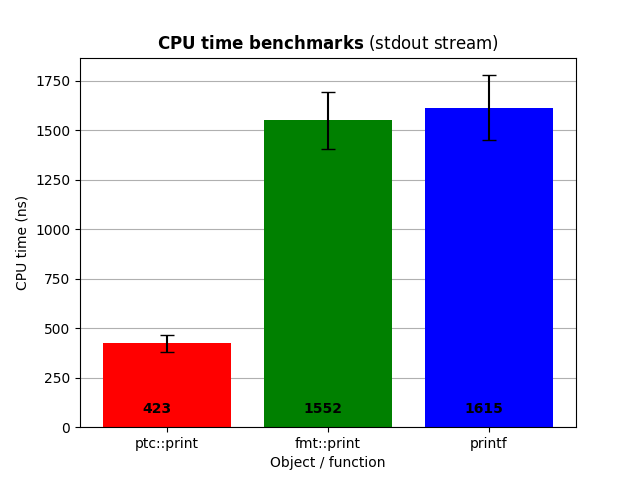
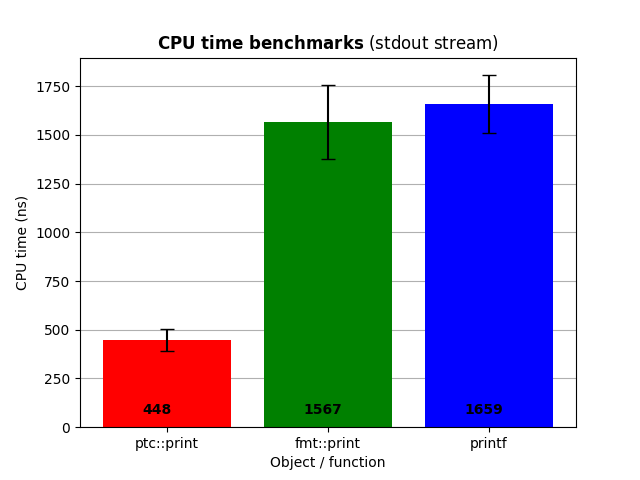
Update in the benchmarking studies with macro usage.

diff --git a/include/ptc/print.hpp b/include/ptc/print.hpp
@@ -54,10 +54,15 @@ namespace ptc
 
      // Default constructor
      /**
-      * @brief Default constructor of the Print class. It initializes the basic class members.
+      * @brief Default constructor of the Print class. It initializes the basic class members and enable (if required) performance improvements..
       * 
       */
-     Print(): end( "\n" ), sep( " " ), flush( false ) {}
+     Print(): end( "\n" ), sep( " " ), flush( false ) 
+      {
+       #ifdef PTC_ENABLE_PERFORMANCE_IMPROVEMENTS
+        performance_options();
+       #endif
+      }
 
      //====================================================
      //     Public setters
@@ -160,9 +165,6 @@ namespace ptc
         }
        else
         {
-         #ifdef PTC_ENABLE_PERFORMANCE_IMPROVEMENTS
-          performance_options();
-         #endif
          print_backend( std::cout, std::forward<T>( first ), std::forward<Args>( args )... );
         }
       }
@@ -321,7 +323,10 @@ namespace ptc
       */
      inline void performance_options() const
       {
+       std::lock_guard <std::mutex> lock{ mutex_ };
+       
        std::ios_base::sync_with_stdio( false );
+       std::cin.tie( NULL );
       }
 
      //====================================================

diff --git a/studies/benchmarking/benchmarking.cpp b/studies/benchmarking/benchmarking.cpp
@@ -1,8 +1,6 @@
 //====================================================
 //     Headers
 //====================================================
-
-
 // My headers
 #include "../../include/ptc/print.hpp"
 

diff --git a/README.md b/README.md
@@ -2,7 +2,7 @@
 
 <h3 align="center">A C++17 header-only library for custom printing to the output stream (inspired by the Python print function) </h3>
 <p align="center">
-  <img title="v0.2" alt="v0.2" src="https://img.shields.io/badge/version-v0.2-informational?style=flat-square">
+  <img title="v0.3" alt="v0.3" src="https://img.shields.io/badge/version-v0.3-informational?style=flat-square">
   <img title="MIT License" alt="license" src="https://img.shields.io/badge/license-MIT-informational?style=flat-square">
 	<img title="C++17" alt="C++17" src="https://img.shields.io/badge/c++-17-informational?style=flat-square"><br/>
 	<img title="Code size" alt="code size" src="https://img.shields.io/github/languages/code-size/JustWhit3/ptc-print?color=red">
@@ -260,7 +260,7 @@ Prerequisites are minimal and are automatically installed with the `install.sh` 
 
 ### Performance improvements
 
-To consistently increase performance improvements, in case you don't plan to use both C++ and C output stream objects together (like `std::cout` and `printf` in the same program) you can define the macro:
+To consistently increase performance improvements you can use the following preprocessor directive:
 
 ```C++
 #define PTC_ENABLE_PERFORMANCE_IMPROVEMENTS
@@ -270,7 +270,12 @@ at the beginning of your program. In this way, as you can see from [benchmarking
 
 > **NOTE**: the usage of `PTC_ENABLE_PERFORMANCE_IMPROVEMENTS` macro will propagate not only to `ptc::print`, but also to `std::cout` in general, since it is directly used inside `ptc::print`.
 
-This operation preserves the library quality, however some memory false-positive errors may occur when running Valgrind *memcheck* tool; they are due to the [`std::ios_base::sync_with_stdio`](https://en.cppreference.com/w/cpp/io/ios_base/sync_with_stdio) function usage inside a generic class. This false-positive has been hidden into a Valgrind [suppression file](https://github.com/JustWhit3/ptc-print/tree/main/tests/valgrind_suppressions.supp).
+If you plan to use this preprocessor directive pay attention to the **following points**:
+
+- Use this in case you don't plan to use both C++ and C output stream objects together (like `std::cout` and `printf` in the same program).
+- Make sure to flush `ptc::print` manually every time you want to display something before expecting input on `std::cin`, since `std::cout` and `std::cin` have been untied (see [here](https://stackoverflow.com/questions/31162367/significance-of-ios-basesync-with-stdiofalse-cin-tienull)).
+
+These operations preserve the library quality, however some memory false-positive errors may occur when running Valgrind *memcheck* tool; they are due to the [`std::ios_base::sync_with_stdio`](https://en.cppreference.com/w/cpp/io/ios_base/sync_with_stdio) function usage inside a generic class. This false-positive has been hidden into a Valgrind [suppression file](https://github.com/JustWhit3/ptc-print/tree/main/tests/valgrind_suppressions.supp). A related discussion can be found [here](https://stackoverflow.com/questions/73267528/valgrind-complaining-for-possible-memory-problems-from-a-program-which-uses-std?noredirect=1#comment129394781_73267528).
 
 ## Tests
 
